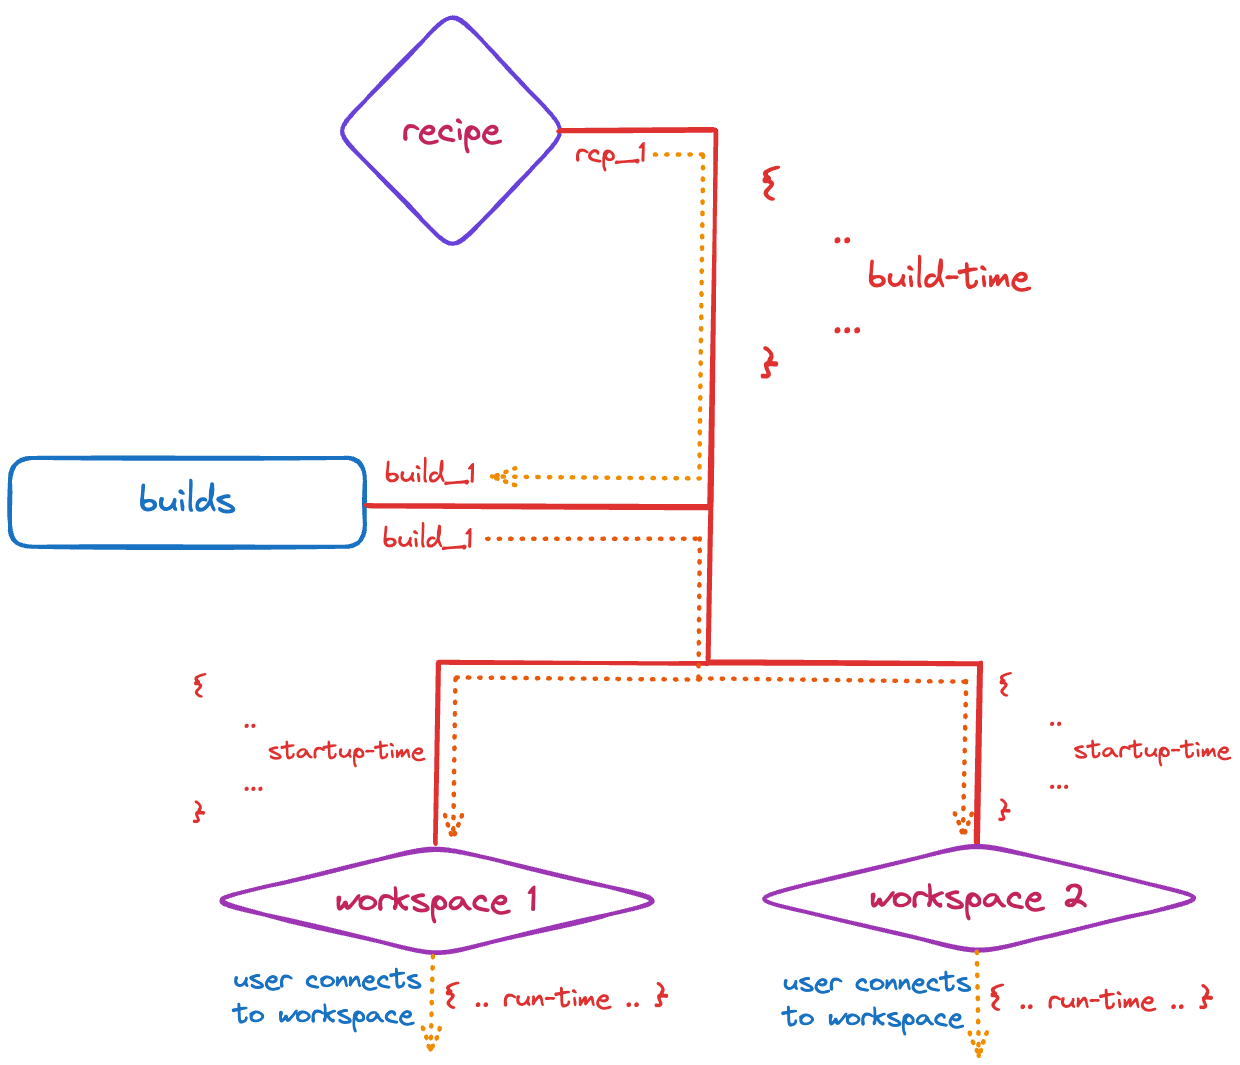
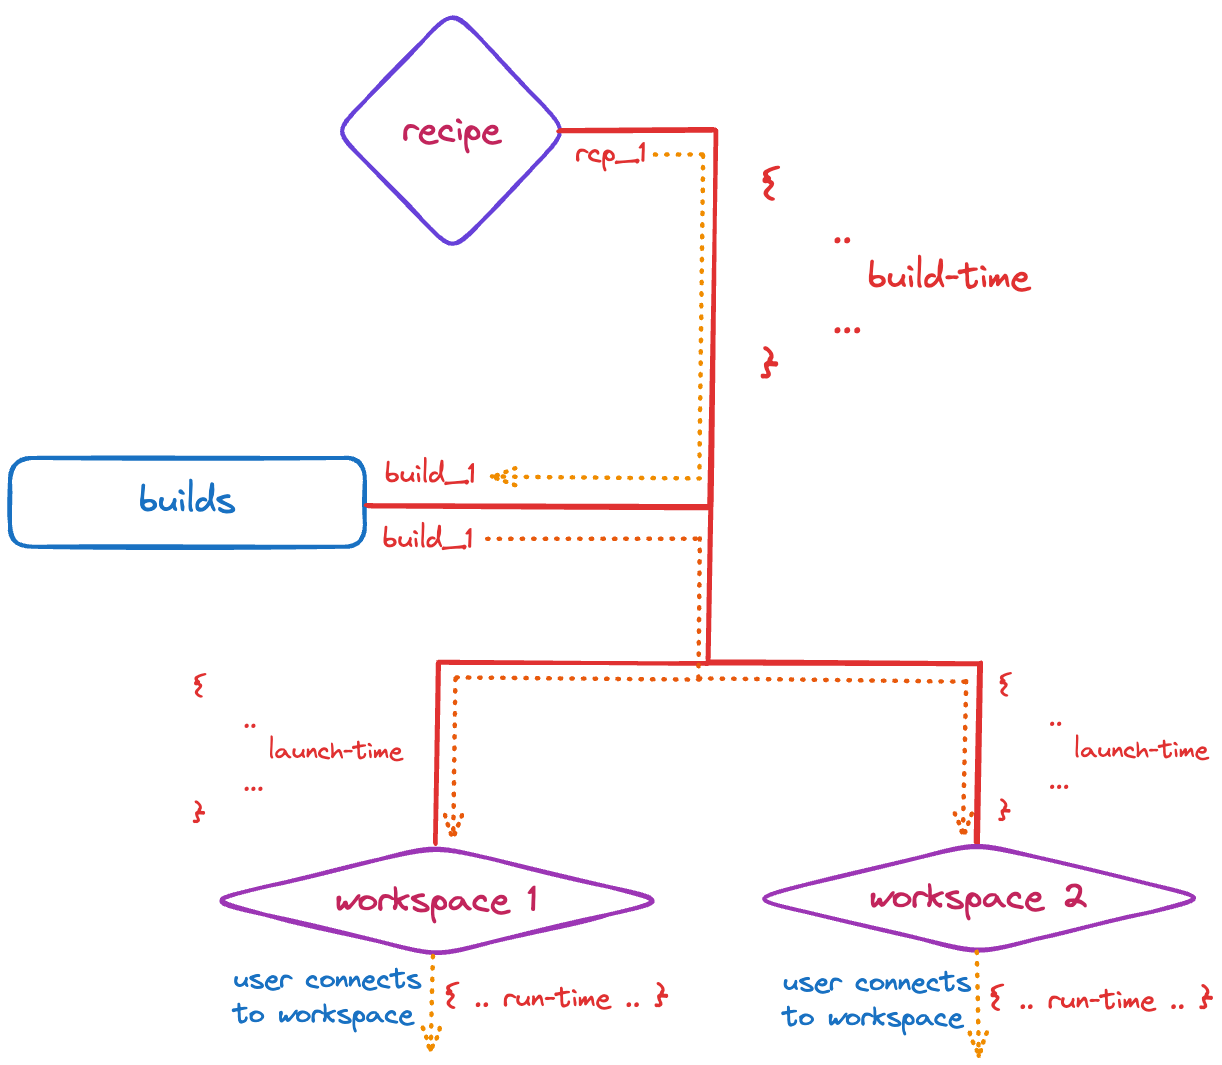
launch-time

diff --git a/recipes/exec-stages.md b/recipes/exec-stages.md
@@ -1,17 +1,17 @@
 # Recipe Execution Stages
 
-Recipes have 2 execution stages:
+Recipes have 2 execution stages that are controlled by the user:
 1. Build-time: when recipe is getting saved, after validation.
-2. Startup-time: when a workspace is being launched from a recipe.
+2. Launch-time: when a workspace is being launched from a recipe.
 
 Irrespective of the stage, command blocks will be executed in the order in which they are specified in the recipe.
 
-<figure><img src="../.gitbook/assets/exec-stages.png" alt=""><figcaption><p>Execution stages (difference between built- and startup-time)</p></figcaption></figure>
+<figure><img src="../.gitbook/assets/exec-stages.png" alt=""><figcaption><p>Execution stages (difference between built- and launch-time)</p></figcaption></figure>
 
 
 <details>
 <summary>What won't work</summary>
-Anything that requires user-input to proceed. Build- and startup-time steps are executed by processes in a completely headless mode. As such, if your setup command requires user-input or needs to be attached to a TTY, it will unfortunately not work. You will see it get stuck in the logs, and the best you will be able to do is cancel that build.
+Anything that requires user-input to proceed. Build- and launch-time steps are executed by processes in a completely headless mode. As such, if your setup command requires user-input or needs to be attached to a TTY, it will unfortunately not work. You will see it get stuck in the logs, and the best you will be able to do is cancel that build.
 
 Common cases where this is true:
 - Adding `-y` for apt-get operations: `sudo apt-get install -y curl`
@@ -82,21 +82,21 @@ Use-cases:
 - Starting any sort of daemonized process (eg: `sudo systemctl start ...`)
     - docker daemon
     - mysqld, postgres, etc
-- While calling operations to kick-off indexing in IDEs is technically feasible in the build-time stage, it's best left to the startup-time stage.
+- While calling operations to kick-off indexing in IDEs is technically feasible in the build-time stage, it's best left to the launch-time stage.
 </details>
 
-## Startup-time
+## launch-time
 
-These steps are run using a systemctl unit at startup time. Command blocks will be executed in the order in which they are specified in the recipe.
+These steps are run using a systemctl unit at launch-time. Command blocks will be executed in the order in which they are specified in the recipe.
 
 
 {% hint style="warning" %}
-**run_at_startup_** needs to be prepended to the command name in order for it to get executed as a startup-time step.
+**run_at_startup_** needs to be prepended to the command name in order for it to get executed as a launch-time step.
 {% endhint %}
 
 Other than that, the same rules from the [Build-time](#build-time) stage apply.
 
-Here's an example of some startup-time steps:
+Here's an example of some launch-time steps:
 
 {% code overflow="wrap" lineNumbers="true" %}
 ```yaml

diff --git a/recipes/secrets/README.md b/recipes/secrets/README.md
@@ -6,14 +6,14 @@ These are usually used by:
 - operations that are used to access sensitive resources, or
 - your applications, either to get built or run
 
-Once a secret is saved, it won't be visible in the UI or CLI. It will be available at build- or startup-time. 
+Once a secret is saved, it won't be visible in the UI or CLI. It will be available at build- or launch-time. 
 It will also be available in the running workspaces.
 
 {% hint style="warning" %}
 **Reserved prefix** `DEVZERO_` is a reserved prefix used by the platform. They may change at any time so relying on them is not advisable.
 {% endhint %}
 
-You can access secrets within builds or at startup-time, just like you would access any environment variable. If your secret is called `MY_SECRET_KEY`, to access its value anywhere, use `$MY_SECRET_KEY`.
+You can access secrets within builds or at launch-time, just like you would access any environment variable. If your secret is called `MY_SECRET_KEY`, to access its value anywhere, use `$MY_SECRET_KEY`.
 At runtime, you can use the `env` binary to verify that the secrets are present within that context.  
 
 All secrets are stored securely within DevZero (in an isolated HashiCorp Vault deployment). 

diff --git a/recipes/env-vars/README.md b/recipes/env-vars/README.md
@@ -6,14 +6,14 @@ These are usually used by when:
 - a build is getting created,
 - a process needs it at runtime
 
-Once an environment variable is saved, it will be visible in the UI or CLI. It will be available at build- or startup-time. 
+Once an environment variable is saved, it will be visible in the UI or CLI. It will be available at build- or launch-time. 
 It will also be available in the running workspaces.
 
 {% hint style="warning" %}
 **Reserved prefix** `DEVZERO_` is a reserved prefix used by the platform. They may change at any time so relying on them is not advisable.
 {% endhint %}
 
-You can access environment variables within builds or at startup-time. If your variable is called `MY_KEY`, to access its value anywhere, use `$MY_KEY`.
+You can access environment variables within builds or at launch-time. If your variable is called `MY_KEY`, to access its value anywhere, use `$MY_KEY`.
 At runtime, you can use the `env` binary to verify that the secrets are present within that context.  
 
 <figure><img src="../.gitbook/assets/env-var-in-build.png" alt=""><figcaption><p>Environment Variables in Builds</p></figcaption></figure>

diff --git a/SUMMARY.md b/SUMMARY.md
@@ -36,7 +36,7 @@
 * [Secrets](recipes/secrets/README.md)
   * [Personal](recipes/secrets/personal.md)
   * [Team](recipes/secrets/team.md)
-* [Execution stages (build- vs startup-time)](recipes/exec-stages.md)
+* [Execution stages (build- vs launch-time)](recipes/exec-stages.md)
 * [Custom base images](recipes/custom-base.md)
 * [Where to save recipe specs?](recipes/saving-recipes.md)
 
